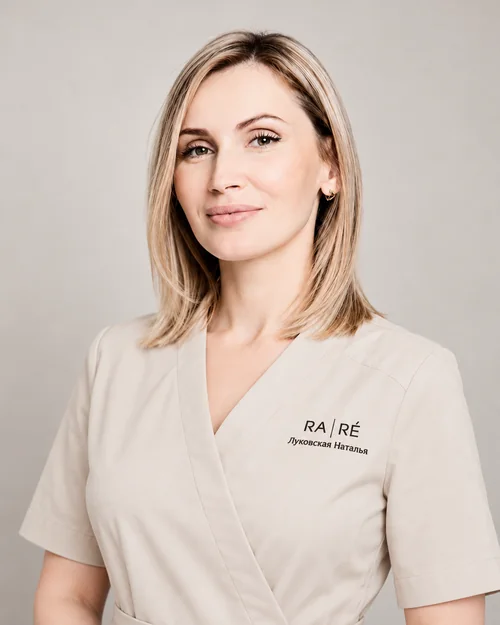
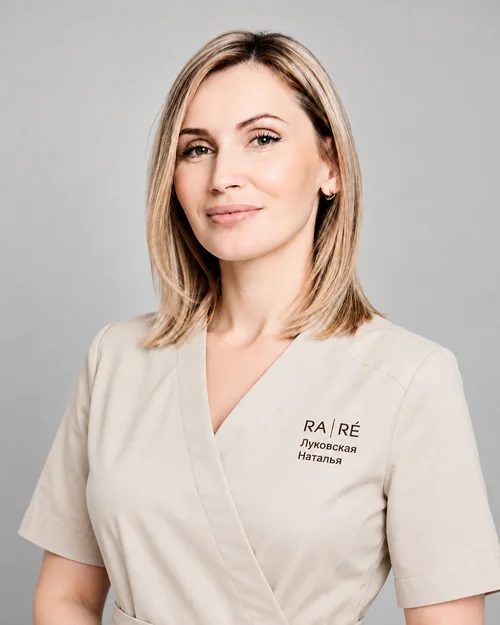
Swap in the client's revised portrait of Natalya

diff --git a/index.html b/index.html
@@ -468,7 +468,7 @@
           <p class="mh-spec-card__role">Врач-дерматовенеролог, косметолог, трихолог</p>
         </a>
         <a href="specialists/natalya-vladimirovna.html" class="mh-spec-card">
-          <img src="assets/photos/spec-natalya.webp?v=10" alt="Луковская Наталья Владимировна" loading="lazy" srcset="assets/photos/spec-natalya-350.webp?v=10 350w, assets/photos/spec-natalya-500.webp?v=10 500w, assets/photos/spec-natalya-700.webp?v=10 700w, assets/photos/spec-natalya.webp?v=10 1122w" sizes="(max-width: 767px) 350px, (max-width: 1024px) 460px, 468px"/>
+          <img src="assets/photos/spec-natalya.webp?v=11" alt="Луковская Наталья Владимировна" loading="lazy" srcset="assets/photos/spec-natalya-350.webp?v=11 350w, assets/photos/spec-natalya-500.webp?v=11 500w, assets/photos/spec-natalya-700.webp?v=11 700w, assets/photos/spec-natalya.webp?v=11 1122w" sizes="(max-width: 767px) 350px, (max-width: 1024px) 460px, 468px"/>
           <p class="mh-spec-card__name">Луковская Наталья Владимировна</p>
           <p class="mh-spec-card__role">Косметолог-эстетист</p>
         </a>
@@ -1121,7 +1121,7 @@
       <span class="spec-card__view" aria-label="Профиль"><svg viewBox="0 0 24 24" fill="none"><path d="M7 17L17 7M17 7H9M17 7V15" stroke="currentColor" stroke-width="1.8" stroke-linecap="round" stroke-linejoin="round"/></svg></span>
     </a>
     <a href="specialists/natalya-vladimirovna.html" class="spec-card">
-      <div class="spec-card__photo"><img src="assets/photos/spec-natalya.webp?v=10" alt="Луковская Наталья Владимировна" loading="lazy" srcset="assets/photos/spec-natalya-350.webp?v=10 350w, assets/photos/spec-natalya-500.webp?v=10 500w, assets/photos/spec-natalya-700.webp?v=10 700w, assets/photos/spec-natalya.webp?v=10 1122w" sizes="(max-width: 767px) 350px, (max-width: 1024px) 460px, 468px"/></div>
+      <div class="spec-card__photo"><img src="assets/photos/spec-natalya.webp?v=11" alt="Луковская Наталья Владимировна" loading="lazy" srcset="assets/photos/spec-natalya-350.webp?v=11 350w, assets/photos/spec-natalya-500.webp?v=11 500w, assets/photos/spec-natalya-700.webp?v=11 700w, assets/photos/spec-natalya.webp?v=11 1122w" sizes="(max-width: 767px) 350px, (max-width: 1024px) 460px, 468px"/></div>
       <p class="spec-card__name">Луковская Наталья Владимировна</p>
       <p class="spec-card__role">Косметолог-эстетист</p>
       <span class="spec-card__view" aria-label="Профиль"><svg viewBox="0 0 24 24" fill="none"><path d="M7 17L17 7M17 7H9M17 7V15" stroke="currentColor" stroke-width="1.8" stroke-linecap="round" stroke-linejoin="round"/></svg></span>

diff --git a/specialists/index.html b/specialists/index.html
@@ -310,7 +310,7 @@
       <p class="spec-card__role">Врач-дерматовенеролог, косметолог, трихолог</p>
     </a>
     <a href="natalya-vladimirovna.html" class="spec-card" data-rr="up" style="--rr-del:0.3s">
-      <img src="../assets/photos/spec-natalya.webp?v=10" alt="Луковская Наталья Владимировна" loading="lazy" srcset="../assets/photos/spec-natalya-350.webp?v=10 350w, ../assets/photos/spec-natalya-500.webp?v=10 500w, ../assets/photos/spec-natalya-700.webp?v=10 700w, ../assets/photos/spec-natalya.webp?v=10 1122w" sizes="(max-width: 767px) 350px, (max-width: 1024px) 460px, 468px"/>
+      <img src="../assets/photos/spec-natalya.webp?v=11" alt="Луковская Наталья Владимировна" loading="lazy" srcset="../assets/photos/spec-natalya-350.webp?v=11 350w, ../assets/photos/spec-natalya-500.webp?v=11 500w, ../assets/photos/spec-natalya-700.webp?v=11 700w, ../assets/photos/spec-natalya.webp?v=11 1122w" sizes="(max-width: 767px) 350px, (max-width: 1024px) 460px, 468px"/>
       <p class="spec-card__name">Луковская Наталья Владимировна</p>
       <p class="spec-card__role">Косметолог-эстетист</p>
     </a>
@@ -375,7 +375,7 @@
     <p class="mh-spec-card__role">Врач-дерматовенеролог, косметолог, трихолог</p>
   </a>
   <a href="natalya-vladimirovna.html" class="mh-spec-card" data-rr="up" style="--rr-del:0.3s">
-    <img src="../assets/photos/spec-natalya.webp?v=10" alt="Луковская Наталья Владимировна" loading="lazy" srcset="../assets/photos/spec-natalya-350.webp?v=10 350w, ../assets/photos/spec-natalya-500.webp?v=10 500w, ../assets/photos/spec-natalya-700.webp?v=10 700w, ../assets/photos/spec-natalya.webp?v=10 1122w" sizes="(max-width: 767px) 350px, (max-width: 1024px) 460px, 468px"/>
+    <img src="../assets/photos/spec-natalya.webp?v=11" alt="Луковская Наталья Владимировна" loading="lazy" srcset="../assets/photos/spec-natalya-350.webp?v=11 350w, ../assets/photos/spec-natalya-500.webp?v=11 500w, ../assets/photos/spec-natalya-700.webp?v=11 700w, ../assets/photos/spec-natalya.webp?v=11 1122w" sizes="(max-width: 767px) 350px, (max-width: 1024px) 460px, 468px"/>
     <p class="mh-spec-card__name">Луковская Наталья Владимировна</p>
     <p class="mh-spec-card__role">Косметолог-эстетист</p>
   </a>

diff --git a/specialists/elena-tigranovna.html b/specialists/elena-tigranovna.html
@@ -426,7 +426,7 @@
     <div class="spec-sec-head"><h2 data-rr="up">Другие специалисты</h2></div>
     <div class="spec-others__grid" id="spec-others-cards">
       <a href="natalya-vladimirovna.html" class="spec-other-card" data-rr="up">
-        <img src="../assets/photos/spec-natalya.webp?v=10" alt="Луковская Наталья Владимировна" loading="lazy" srcset="../assets/photos/spec-natalya-350.webp?v=10 350w, ../assets/photos/spec-natalya-500.webp?v=10 500w, ../assets/photos/spec-natalya-700.webp?v=10 700w, ../assets/photos/spec-natalya.webp?v=10 1122w" sizes="(max-width: 767px) 350px, (max-width: 1024px) 460px, 468px"/>
+        <img src="../assets/photos/spec-natalya.webp?v=11" alt="Луковская Наталья Владимировна" loading="lazy" srcset="../assets/photos/spec-natalya-350.webp?v=11 350w, ../assets/photos/spec-natalya-500.webp?v=11 500w, ../assets/photos/spec-natalya-700.webp?v=11 700w, ../assets/photos/spec-natalya.webp?v=11 1122w" sizes="(max-width: 767px) 350px, (max-width: 1024px) 460px, 468px"/>
         <p class="spec-other-card__name">Луковская Наталья Владимировна</p>
         <p class="spec-other-card__role">Косметолог-эстетист</p>
       </a>

diff --git a/specialists/ekaterina-evgenevna.html b/specialists/ekaterina-evgenevna.html
@@ -393,7 +393,7 @@
         <p class="spec-other-card__role">Косметолог-эстетист</p>
       </a>
       <a href="natalya-vladimirovna.html" class="spec-other-card" data-rr="up" style="--rr-del:0.10s">
-        <img src="../assets/photos/spec-natalya.webp?v=10" alt="Луковская Наталья Владимировна" loading="lazy" srcset="../assets/photos/spec-natalya-350.webp?v=10 350w, ../assets/photos/spec-natalya-500.webp?v=10 500w, ../assets/photos/spec-natalya-700.webp?v=10 700w, ../assets/photos/spec-natalya.webp?v=10 1122w" sizes="(max-width: 767px) 350px, (max-width: 1024px) 460px, 468px"/>
+        <img src="../assets/photos/spec-natalya.webp?v=11" alt="Луковская Наталья Владимировна" loading="lazy" srcset="../assets/photos/spec-natalya-350.webp?v=11 350w, ../assets/photos/spec-natalya-500.webp?v=11 500w, ../assets/photos/spec-natalya-700.webp?v=11 700w, ../assets/photos/spec-natalya.webp?v=11 1122w" sizes="(max-width: 767px) 350px, (max-width: 1024px) 460px, 468px"/>
         <p class="spec-other-card__name">Луковская Наталья Владимировна</p>
         <p class="spec-other-card__role">Косметолог-эстетист</p>
       </a>

diff --git a/specialists/ksenia-aleksandrovna.html b/specialists/ksenia-aleksandrovna.html
@@ -445,7 +445,7 @@
         <p class="spec-other-card__role">Косметолог-эстетист</p>
       </a>
       <a href="natalya-vladimirovna.html" class="spec-other-card" data-rr="up" style="--rr-del:0.15s">
-        <img src="../assets/photos/spec-natalya.webp?v=10" alt="Луковская Наталья Владимировна" loading="lazy" srcset="../assets/photos/spec-natalya-350.webp?v=10 350w, ../assets/photos/spec-natalya-500.webp?v=10 500w, ../assets/photos/spec-natalya-700.webp?v=10 700w, ../assets/photos/spec-natalya.webp?v=10 1122w" sizes="(max-width: 767px) 350px, (max-width: 1024px) 460px, 468px"/>
+        <img src="../assets/photos/spec-natalya.webp?v=11" alt="Луковская Наталья Владимировна" loading="lazy" srcset="../assets/photos/spec-natalya-350.webp?v=11 350w, ../assets/photos/spec-natalya-500.webp?v=11 500w, ../assets/photos/spec-natalya-700.webp?v=11 700w, ../assets/photos/spec-natalya.webp?v=11 1122w" sizes="(max-width: 767px) 350px, (max-width: 1024px) 460px, 468px"/>
         <p class="spec-other-card__name">Луковская Наталья Владимировна</p>
         <p class="spec-other-card__role">Косметолог-эстетист</p>
       </a>

diff --git a/specialists/yana-vladimirovna.html b/specialists/yana-vladimirovna.html
@@ -432,7 +432,7 @@
         <p class="spec-other-card__role">Косметолог-эстетист</p>
       </a>
       <a href="natalya-vladimirovna.html" class="spec-other-card" data-rr="up" style="--rr-del:0.05s">
-        <img src="../assets/photos/spec-natalya.webp?v=10" alt="Луковская Наталья Владимировна" loading="lazy" srcset="../assets/photos/spec-natalya-350.webp?v=10 350w, ../assets/photos/spec-natalya-500.webp?v=10 500w, ../assets/photos/spec-natalya-700.webp?v=10 700w, ../assets/photos/spec-natalya.webp?v=10 1122w" sizes="(max-width: 767px) 350px, (max-width: 1024px) 460px, 468px"/>
+        <img src="../assets/photos/spec-natalya.webp?v=11" alt="Луковская Наталья Владимировна" loading="lazy" srcset="../assets/photos/spec-natalya-350.webp?v=11 350w, ../assets/photos/spec-natalya-500.webp?v=11 500w, ../assets/photos/spec-natalya-700.webp?v=11 700w, ../assets/photos/spec-natalya.webp?v=11 1122w" sizes="(max-width: 767px) 350px, (max-width: 1024px) 460px, 468px"/>
         <p class="spec-other-card__name">Луковская Наталья Владимировна</p>
         <p class="spec-other-card__role">Косметолог-эстетист</p>
       </a>

diff --git a/specialists/natalya-vladimirovna.html b/specialists/natalya-vladimirovna.html
@@ -203,7 +203,7 @@
       </a>
     </div>
     <div class="spec-hero__photo" data-rr="img">
-      <img src="../assets/photos/spec-natalya.webp?v=10" alt="Луковская Наталья Владимировна" loading="eager" srcset="../assets/photos/spec-natalya-350.webp?v=10 350w, ../assets/photos/spec-natalya-500.webp?v=10 500w, ../assets/photos/spec-natalya-700.webp?v=10 700w, ../assets/photos/spec-natalya.webp?v=10 1122w" sizes="(max-width: 767px) 350px, (max-width: 1024px) 460px, 468px"/>
+      <img src="../assets/photos/spec-natalya.webp?v=11" alt="Луковская Наталья Владимировна" loading="eager" srcset="../assets/photos/spec-natalya-350.webp?v=11 350w, ../assets/photos/spec-natalya-500.webp?v=11 500w, ../assets/photos/spec-natalya-700.webp?v=11 700w, ../assets/photos/spec-natalya.webp?v=11 1122w" sizes="(max-width: 767px) 350px, (max-width: 1024px) 460px, 468px"/>
     </div>
   </section>
 
